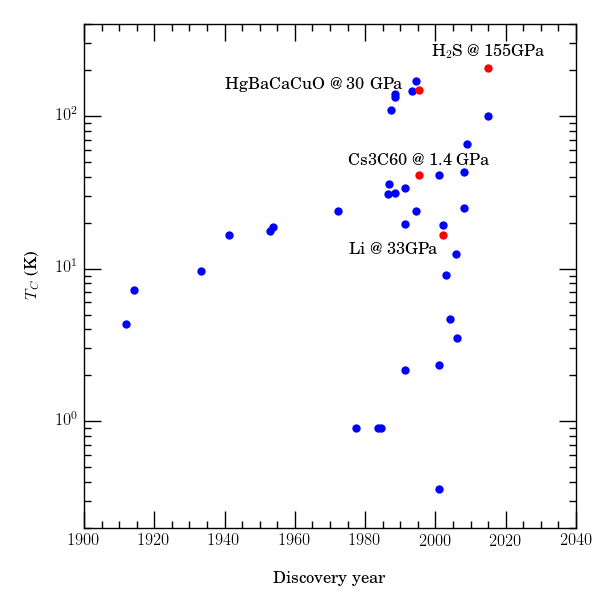
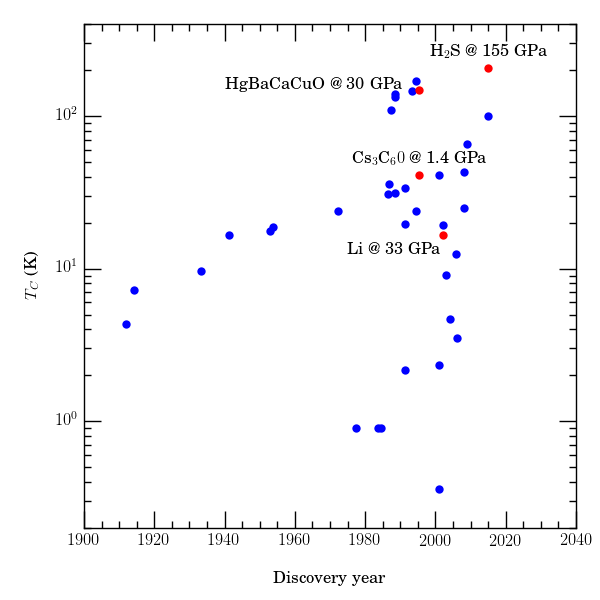
Added quark SC.

Changed region(s): [[0.57, 0.24, 0.81, 0.3], [0.72, 0.06, 0.9, 0.12], [0.57, 0.39, 0.75, 0.42]]

diff --git a/sfluid.py b/sfluid.py
@@ -1,4 +1,5 @@
-"""-------------------------------------------------------------------
+"""
+-------------------------------------------------------------------
 
 Copyright (C) 2016, Andrew W. Steiner
 
@@ -6,18 +7,18 @@ This python code utilizes the superconducting material properties data
 compiled by P.J. Ray at
 http://dx.doi.org/10.6084/m9.figshare.2075680.v2 (see below)
 
-This plot is free software; you can redistribute it
+This program is free software; you can redistribute it
 and/or modify it under the terms of the GNU General Public License
 as published by the Free Software Foundation; either version 3 of
 the License, or (at your option) any later version.
 
-This plot is distributed in the hope that it will be
+This program is distributed in the hope that it will be
 useful, but WITHOUT ANY WARRANTY; without even the implied warranty
 of MERCHANTABILITY or FITNESS FOR A PARTICULAR PURPOSE. See the GNU
 General Public License for more details.
 
 You should have received a copy of the GNU General Public License
-along with this plot. If not, see <http://www.gnu.org/licenses/>.
+along with this program. If not, see <http://www.gnu.org/licenses/>.
 
 -------------------------------------------------------------------
 
@@ -84,10 +85,10 @@ dat=[['Hg',0.299320,10.859729,1,1],
      ['SrFFeAs',7.800000,132.579186,1,1],
      ['FeSe film',9,150,1,1],
      ['SmOFFeAs',7.600000,107.500000,1,1],
-     ['Cs3C60 @ 1.4~GPa',5.061224,102.262443,1,1.25],
+     [r'Cs$_3$C$_60$ @ 1.4~GPa',5.061224,102.262443,1,1.25],
      ['HgBaCaCuO @ 30~GPa',5.047619,173.755656,0.985,1.1],
-     ['Li @ 33GPa',6.421769,41.628959,0.993,0.8],
-     [r'H$_2$S @ 155GPa',9,203,1,1.25]]
+     ['Li @ 33~GPa',6.421769,41.628959,0.993,0.8],
+     [r'H$_2$S @ 155~GPa',9,203,1,1.25]]
 
 # Initial figure setup
 
@@ -201,10 +202,15 @@ ax.text(2009*x_scale,5.0e8*y_scale,r'$^{3}P_2$ n',
 plot.semilogy(1958,3.5e10,marker='o',mfc='green',mew=0)
 ax.text(1960*x_scale,3.0e10*y_scale,r'(Z,N)',
         fontsize=12,va='center',ha='center')
+plot.semilogy(1984,1.6e10,marker='o',mfc='green',mew=0)
+ax.text(1983*x_scale,1.6e10*y_scale,r'uds',
+        fontsize=12,va='center',ha='center')
 
 ax.text(1965,7.5e10,'Bohr and Mottelson (1957)',
         fontsize=12,va='center',ha='right')
-ax.text(2005,1.0e10,'Brown and Cumming (2009)',
+ax.text(2007,7.0e9,'Brown and Cumming (2009)',
+        fontsize=12,va='center',ha='right')
+ax.text(2025,4.0e10,'Bailin and Love (1984)',
         fontsize=12,va='center',ha='right')
 ax.text(2010,1.3e9,'Page et al. (2009)',
         fontsize=12,va='center',ha='right')
